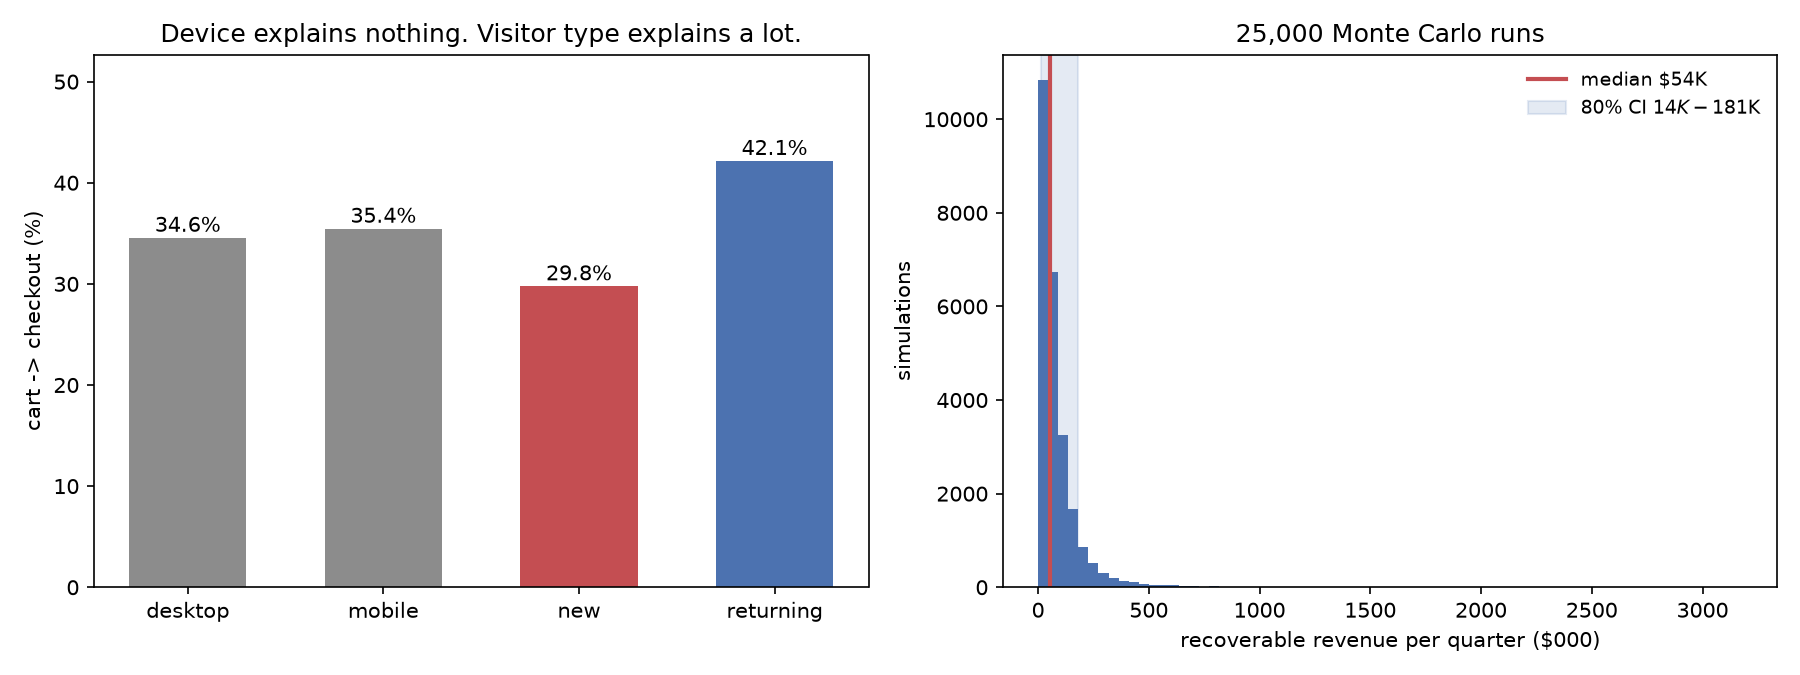
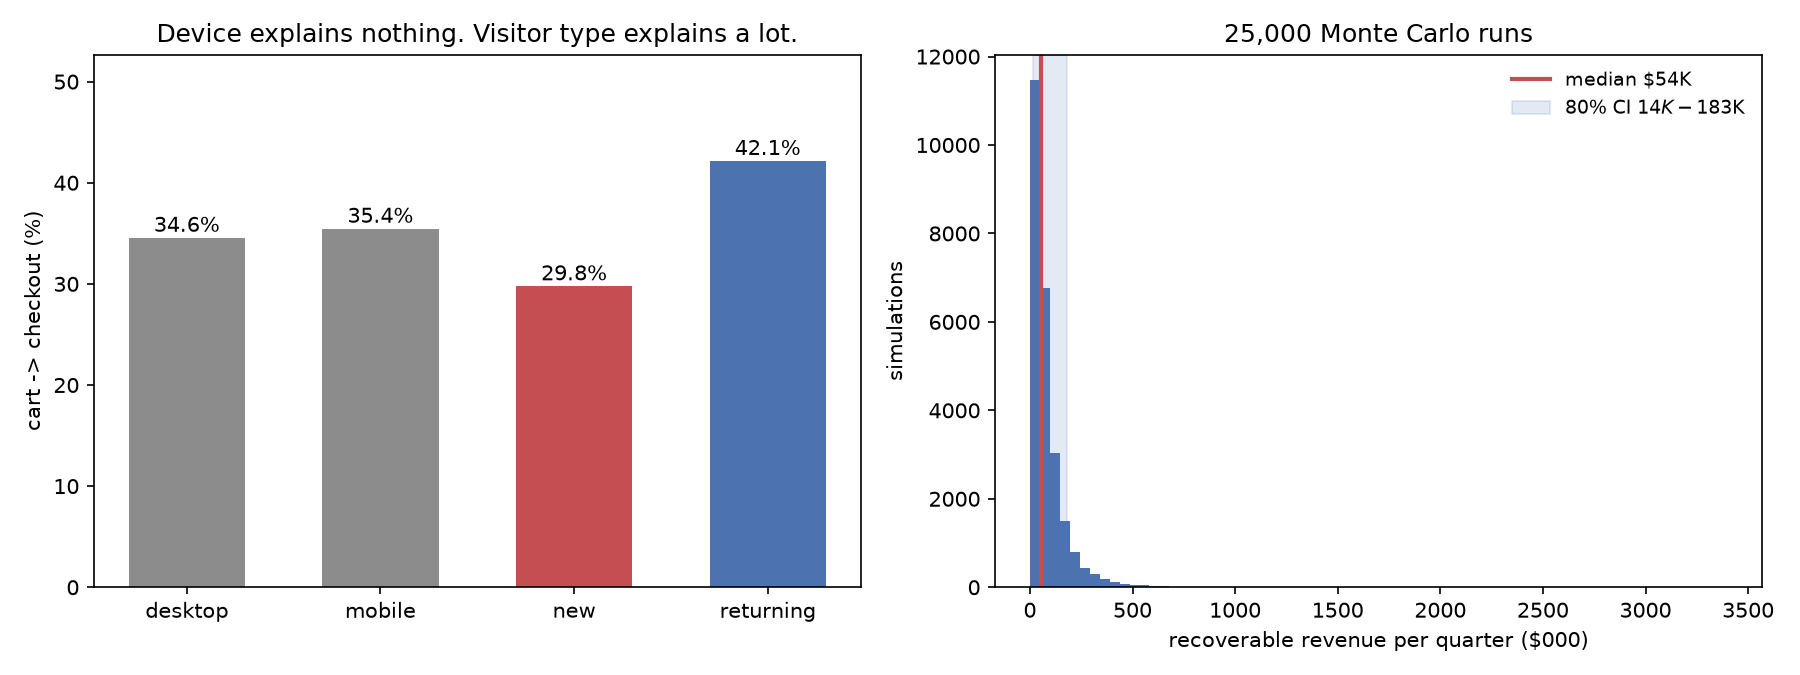
Break the checkout gap down by month and channel
The 12.39pp headline hides real variation. The gap reaches 13.75pp in the
Black Friday / Cyber Monday month and 14.31pp on organic traffic, then
narrows to 11.66pp in the post-holiday lull.

It is widest exactly where it costs most: peak shopping month, largest
acquisition channel.

diff --git a/run_analysis.py b/run_analysis.py
@@ -84,6 +84,49 @@ def funnel(dimension, sql_expr, where=""):
     return out
 
 
+def gap_by(dim_sql, label, min_carted=400):
+    """The new-vs-returning checkout gap, cut by another dimension.
+
+    A single headline number hides how much the gap moves across the data.
+    It is widest in the Black Friday / Cyber Monday month and on organic
+    traffic, and narrowest in the post-holiday lull.
+    """
+    session_number = """(SELECT value.int_value FROM UNNEST(event_params)
+                         WHERE key='ga_session_number')"""
+    rows = run(f"""
+        WITH ev AS (
+          SELECT {SESSION_ID} sid, {dim_sql} dim,
+                 IF({session_number} > 1,'returning','new') vis,
+                 event_name, event_timestamp
+          FROM {TABLE}
+          WHERE _TABLE_SUFFIX BETWEEN '{WINDOW[0]}' AND '{WINDOW[1]}'
+        ),
+        f AS (
+          SELECT sid, MAX(dim) dim, MAX(vis) vis,
+            MIN(IF(event_name='add_to_cart',    event_timestamp, NULL)) t_cart,
+            MIN(IF(event_name='begin_checkout', event_timestamp, NULL)) t_co
+          FROM ev GROUP BY sid
+        )
+        SELECT dim, vis, COUNTIF(t_cart IS NOT NULL) carted,
+          ROUND(100*SAFE_DIVIDE(COUNTIF(t_co>t_cart),COUNTIF(t_cart IS NOT NULL)),2) c2k
+        FROM f GROUP BY dim, vis
+        HAVING COUNTIF(t_cart IS NOT NULL) > {min_carted}
+        ORDER BY dim, vis
+    """)
+    print(f"\n{label}")
+    out = {}
+    for d in sorted({str(r.dim) for r in rows}):
+        pair = [r for r in rows if str(r.dim) == d]
+        if len(pair) != 2:
+            continue
+        new = next(x for x in pair if x.vis == "new")
+        ret = next(x for x in pair if x.vis == "returning")
+        gap = round(ret.c2k - new.c2k, 2)
+        out[d] = gap
+        print(f"  {d:<16} new {new.c2k:>6}%   returning {ret.c2k:>6}%   gap {gap:>6.2f}pp")
+    return out
+
+
 def order_values():
     rows = run(f"""
         SELECT ecommerce.purchase_revenue_in_usd v
@@ -147,6 +190,9 @@ def main():
     print(f"  device       {dev_gap:5.2f}pp   <- essentially none")
     print(f"  visitor type {vis_gap:5.2f}pp   <- this is the real one")
 
+    by_month = gap_by("SUBSTR(event_date,1,6)", "GAP BY MONTH")
+    by_channel = gap_by("traffic_source.medium", "GAP BY CHANNEL")
+
     values = order_values()
     sims = monte_carlo(by_visitor["new"], by_visitor["returning"], values)
     p10, p50, p90 = np.percentile(sims, [10, 50, 90])
@@ -160,6 +206,7 @@ def main():
     results = dict(
         users=s["users"], events=s["events"], countries=s["countries"],
         device_gap_pp=round(dev_gap, 2), visitor_gap_pp=round(vis_gap, 2),
+        visitor_gap_by_month=by_month, visitor_gap_by_channel=by_channel,
         new=by_visitor["new"], returning=by_visitor["returning"],
         orders=len(values), total_revenue=round(float(values.sum())),
         aov=round(float(values.mean()), 2),

diff --git a/README.md b/README.md
@@ -36,6 +36,23 @@ sessions ----21%----> viewed item ----17%----> added to cart ----33%----> purcha
 Over 90% of sessions that begin checkout complete it. The money is lost at discovery
 and at first-visit trust, not at the payment step.
 
+## How stable is the gap?
+
+A single headline number hides how much it moves. Cut two ways:
+
+| month | gap | | channel | gap |
+|---|---|---|---|---|
+| Nov 2020 (Black Friday / Cyber Monday) | **13.75pp** | | organic | **14.31pp** |
+| Dec 2020 | 12.85pp | | referral | 11.89pp |
+| Jan 2021 | 11.66pp | | direct | 11.88pp |
+
+**The gap is widest exactly when it costs most** — peak shopping month, and the
+largest acquisition channel. It narrows to 11.66pp in the post-holiday lull, when
+the traffic mix shifts back toward people who already know the store.
+
+That pattern is itself the argument: the store is at its worst with first-time
+visitors precisely when it has the most of them.
+
 ## What the gap is worth
 
 `$85,916` mean, `$54,202` median, **80% interval `$14,063` – `$181,345`** per quarter.
